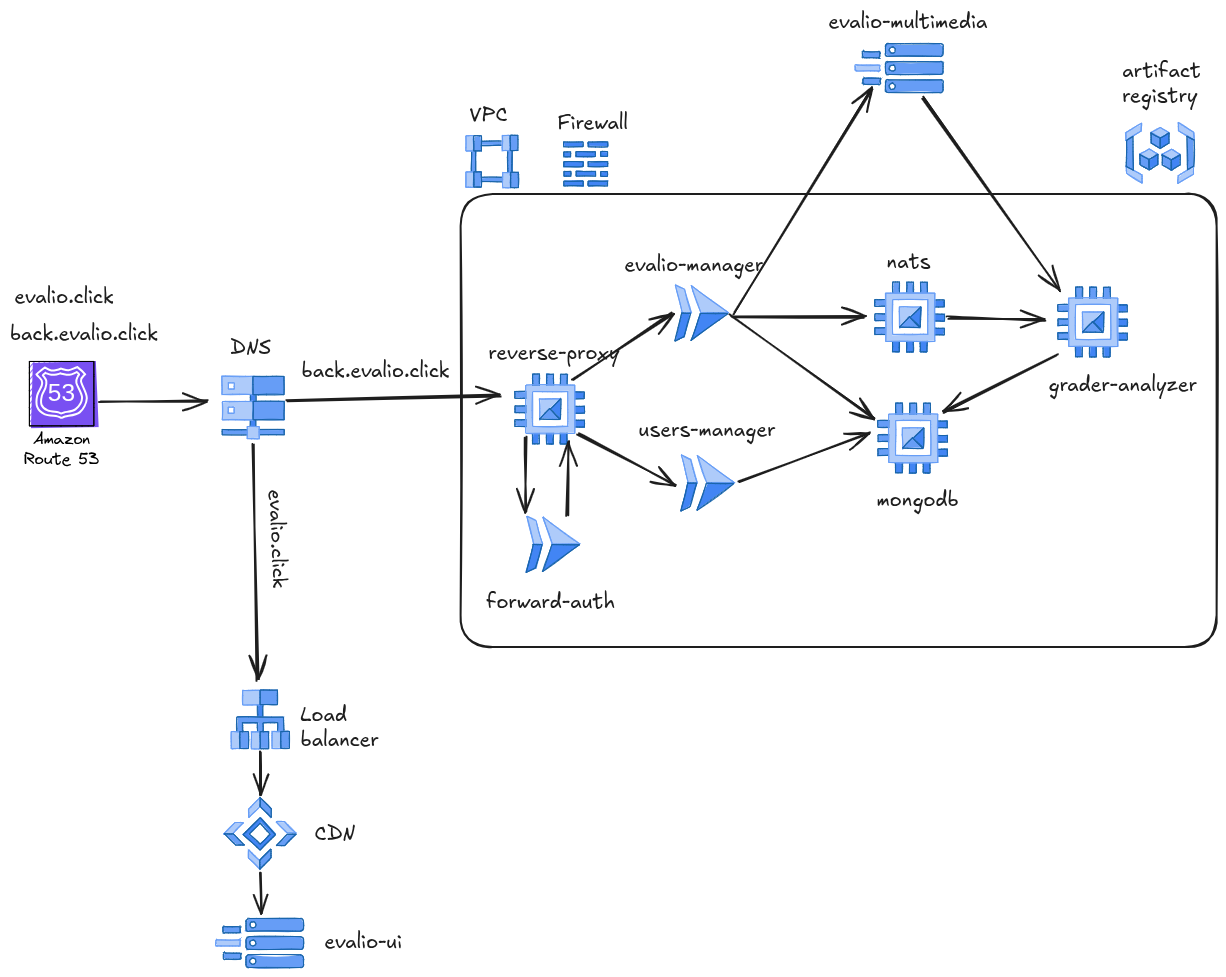
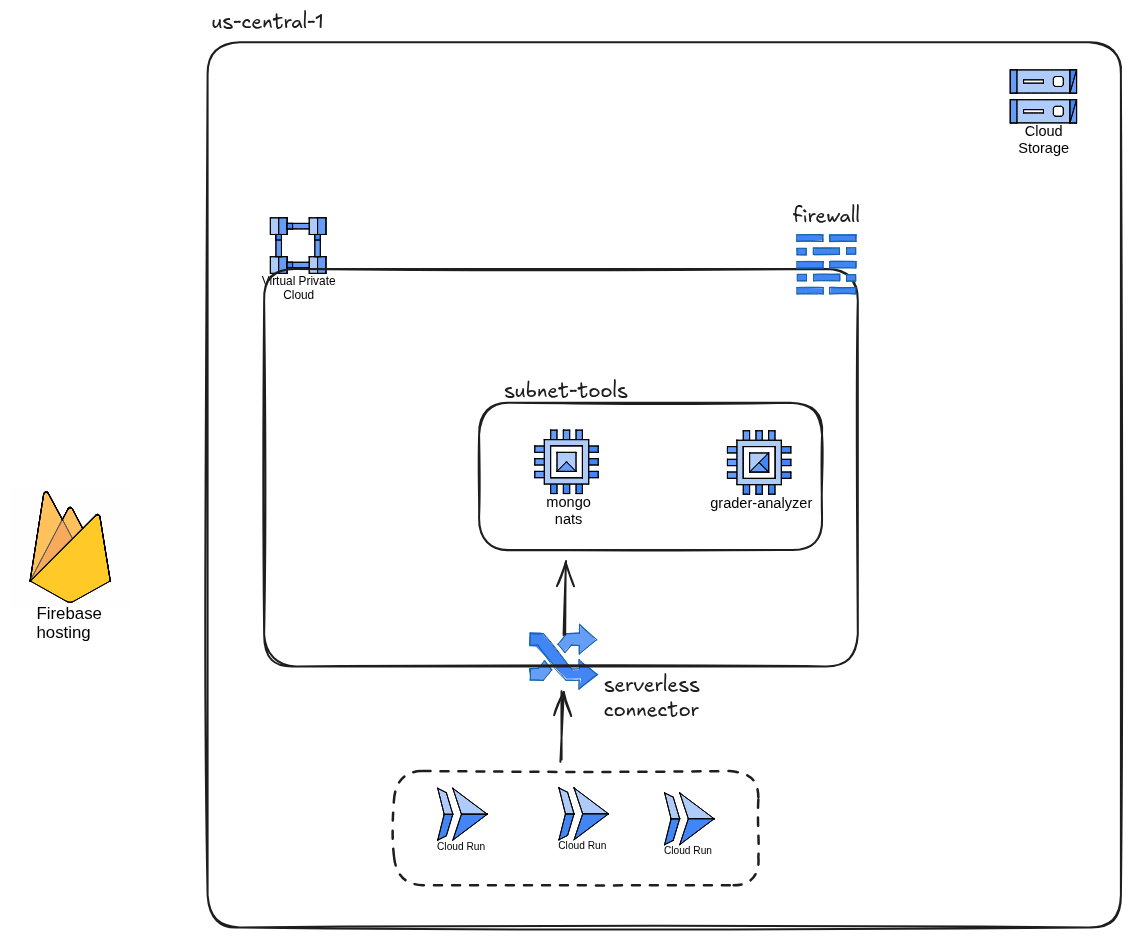
doc: add documentation and remove 0.0.0.0/0 firewall for test

diff --git a/Readme.md b/Readme.md
@@ -92,8 +92,7 @@ Evalio se compone de los siguientes recursos de infraestructura en Google Cloud 
 - 1 CDN para manejo de caché para distribuir contenido
 - 1 DNS cloud para agregar las rutas hacia el load balancer y el backend para el reverse proxy
 
-La infraestructura completa del proyecto se encuentra definia como IaC usando terraform y se puede observar en el siguiente repositorio https://github.com/LuisDiazM/evalio-infrastructure
-
+La infraestructura completa del proyecto se encuentra definia como IaC dentro de la carpeta llamada terraform
 **NOTA** por temas de costos en esta configuración, se decidió compartir la máquina de NATS y mongoDB en una sóla.
 
 ### 3.4. Vista de desarrollo
@@ -142,6 +141,7 @@ El proceso usa CI mediante pipelines de github actions que se encargan de genera
 Para entender el proceso de despligue se tiene el siguiente diagrama donde se separa el CI que aplica directamente hacia este repositorio llamado evalio y su función es generar las imágenes de los contenedores. Para la etapa de CD se tiene un repositorio aparte de toda la infraestructura en terraform donde se actualizan los tags de las imágenes generadas por el artifact registry para que con terraform se apliquen los cambios y por ende el despliegue.
 
 ![diagram](/docs/despliegue.png)
+Al final la estrategia completa no se implementó porque se quería dejar todo en un solo lugar, es decir, el CD no se hizo automático sino subiendo las imágenes directamente al artifact registry con docker push y modificando en terraform la versión para desplegar con terraform apply.
 
 En GCP se creó una cuenta de servicio para que sea manejada únicamente para administrar el artifact registry (almacenamiento de contenedores) y la conexión con github actions se utilizó Workload Identity Federation (WIF), esta es una característica que ofrece ventajas respecto a métodos tradicionales como generar las claves de la cuenta de servicio y almacenarlas en secretos dentro del proyecto ya que estas claves de la manera tradicional son de larga duración, con WIF se emiten claves de corta duración (1 hora defecto) con la cuenta de servicio. El siguiente articulo explica la conexión de WIF con github https://cloud.google.com/blog/products/identity-security/enabling-keyless-authentication-from-github-actions
 
@@ -225,8 +225,6 @@ A continuación se muestran los pasos seguidos para lograr la conexión WIF y gi
     - Valor: La región de tu Artifact Registry.
     - Ejemplo: us-central1
 
-Adicionalmente el pipeline de despliegue cambiará los certificados ya que estos se proveen en el
-repositorio para temas de correr en local, pero para correr en cloud es importante tener otros certificados
 
 ### 3.6. Vista de datos
 
@@ -338,138 +336,3 @@ Los logs no se tiene estrategia de estandard implementada, pero como temas pract
 - El proyecto es más una práctica basado en una pasión personal y se llevó al punto de hacerlo lo más parecido a un producto completo que cubriera el ciclo de vida de desarrollo del software.
 
 - También se quiere explorar el uso de LLMs para tareas de clasificación y probar su eficacia costo/beneficio, esto podrá expandir los tipos de respuestas ya que actualmente sólo está limitado a 4 opciones de respuesta A,B,C o D.
-
-## 10. Roadmap de Evolución
-
-### 10.1. Características
-
-## 11. Correr localmente
-
-Debido a que el objetivo principal es poder usar la cámara del navegador
-
-Como requisito debería tener docker instalado, también una herramienta
-para autofirmar certificados SSL (para correr el sistema en una red interna)
-
-Generar el certificado para su dirección IP o si puede exponer un servidor dns dentro de la red interna donde va "\<IP>" reemplaza el valor
-
-```bash
-openssl req -x509 -newkey rsa:4096 -keyout traefik.key -out traefik.crt -days 365 -nodes -subj "/CN=<IP>"
-```
-
-Clone the project
-
-```bash
-  git clone https://link-to-project
-```
-
-Go to the project directory
-
-```bash
-  cd my-project
-```
-
-Install dependencies
-
-```bash
-  npm install
-```
-
-Start the server
-
-```bash
-  npm run start
-```
-
-## Anexos
-
-### Definición de tareas
-
-✅ Definir requisitos del sistema que se convertirán en casos de uso
-
-✅ Definir los procesos que tiene el sistema
-
-✅ Diseñar la solución como vista lógica de componentes
-
-✅ Diseñar los modelos de datos de la solución
-
-✅ Crear el boilerplate de los componentes de la vista lógica
-
-1. ✅ Trabajar el servicio princial de manera jerarquica a nivel de dominios y exponer APIS
-
-   ✅ grupos
-
-   ✅ plantillas de hojas de respuestas
-
-   ✅ examenes de los estudiantes
-
-   ✅ generador de resumenes de calificaciones
-
-2. ✅ Trabajar en el servicio que se encarga de analizar imágenes por OMR
-   estudiar la teoría, pipeline para procesar imagenes y definición y ajuste del proceso
-
-3. ✅ Comunicar el servicio general con el que analiza imágenes
-
-4. ✅ Diseñar como sería la experiencia de usuario con base a los procesos definidos
-5. ✅ Trabajar en el front Diseñando su interfaz con mocks de datos
-6. ✅ Conectar el front con el backend
-
-✅ Crear los contenedores de los servicios
-
-✅ Administrar los contenedores mediante un docker compose de manera local
-
-✅ compartir el volumen entre los ms para gestionar examenes subidos
-
-✅ agregar traefik como reverse proxy
-
-✅ agregar traefik con ssl autofirmado red local
-
-✅ agregar docker del front (por temas de pruebas)
-
-✅ capturar fotos desde la app corriendo por contenedores
-
-✅ empezar a ajustar el grader analyzer con las fotos reales
-
-✅ Crear el servicio de administración de usuarios golang fiber, CRUD completo incluido login, registro (rutas públicas) duración finita de suscripción
-
-✅ Crear el servicio de forwardAuth para validar los token de acceso
-
-✅ Integrar servicio usuarios y forwardAuth con traefik
-
-✅ Agregar login y registro de usuario interactuando el back y el front
-
-✅ implementar storage GCP dentro del código y firmar urls
-
-✅ Diseñar la infraestructura en el cloud seleccionado GCP
-
-✅ En el front mostrar la evaluación detectada por el sistema
-
-✅ Crear el pipeline en github actions
-
-✅ Definir el artifact registry para las imagenes en terraform
-
-- Definir la infraestructura como código usando terraform parte por parte
-
-- Ajustar infraestructura y probar APP
-- Definir como monitorear el sistema que herramientas se usarán
-- Unificar logs
-
-Mejoras para el sistema:
-
-- Hay estudiantes que se retiran, al generar parciales esas hojas se pierden
-- En la lista de parciales mostrar información del grupo
-- En las hojas que se imprimen de respuestas colocar el nombre del grupo
-- Agregar navegación hacia atrás y mejorar estilos
-
-### Videos del sistema
-
-## Para IaC
-
-- Tener un proyecto de GCP
-- Hacer login con `gcloud auth login`
-
-Para subir las imagenes al repositorio de artifact registry de manera manual
-se deben crear las imagenes de los containers, puede consultar cada docker file para hacer el build
-
-docker login
-
-docker tag <image_name> us-central1-docker.pkg.dev/<PROJECT_ID>/evalio-containers/<ms_name>
